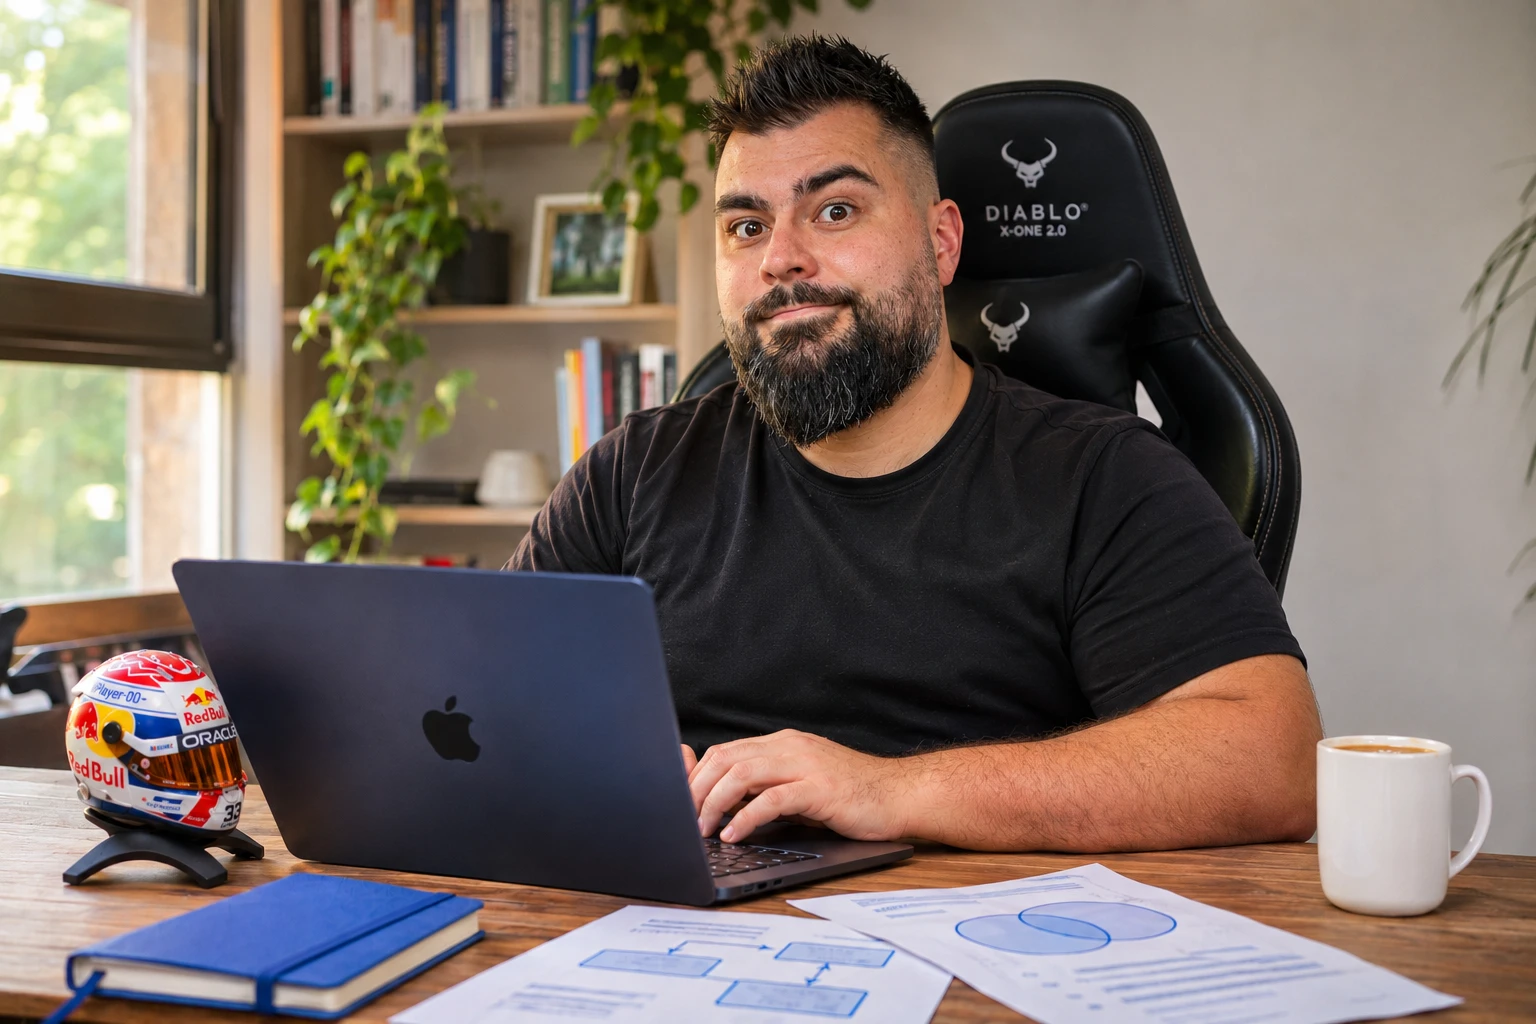
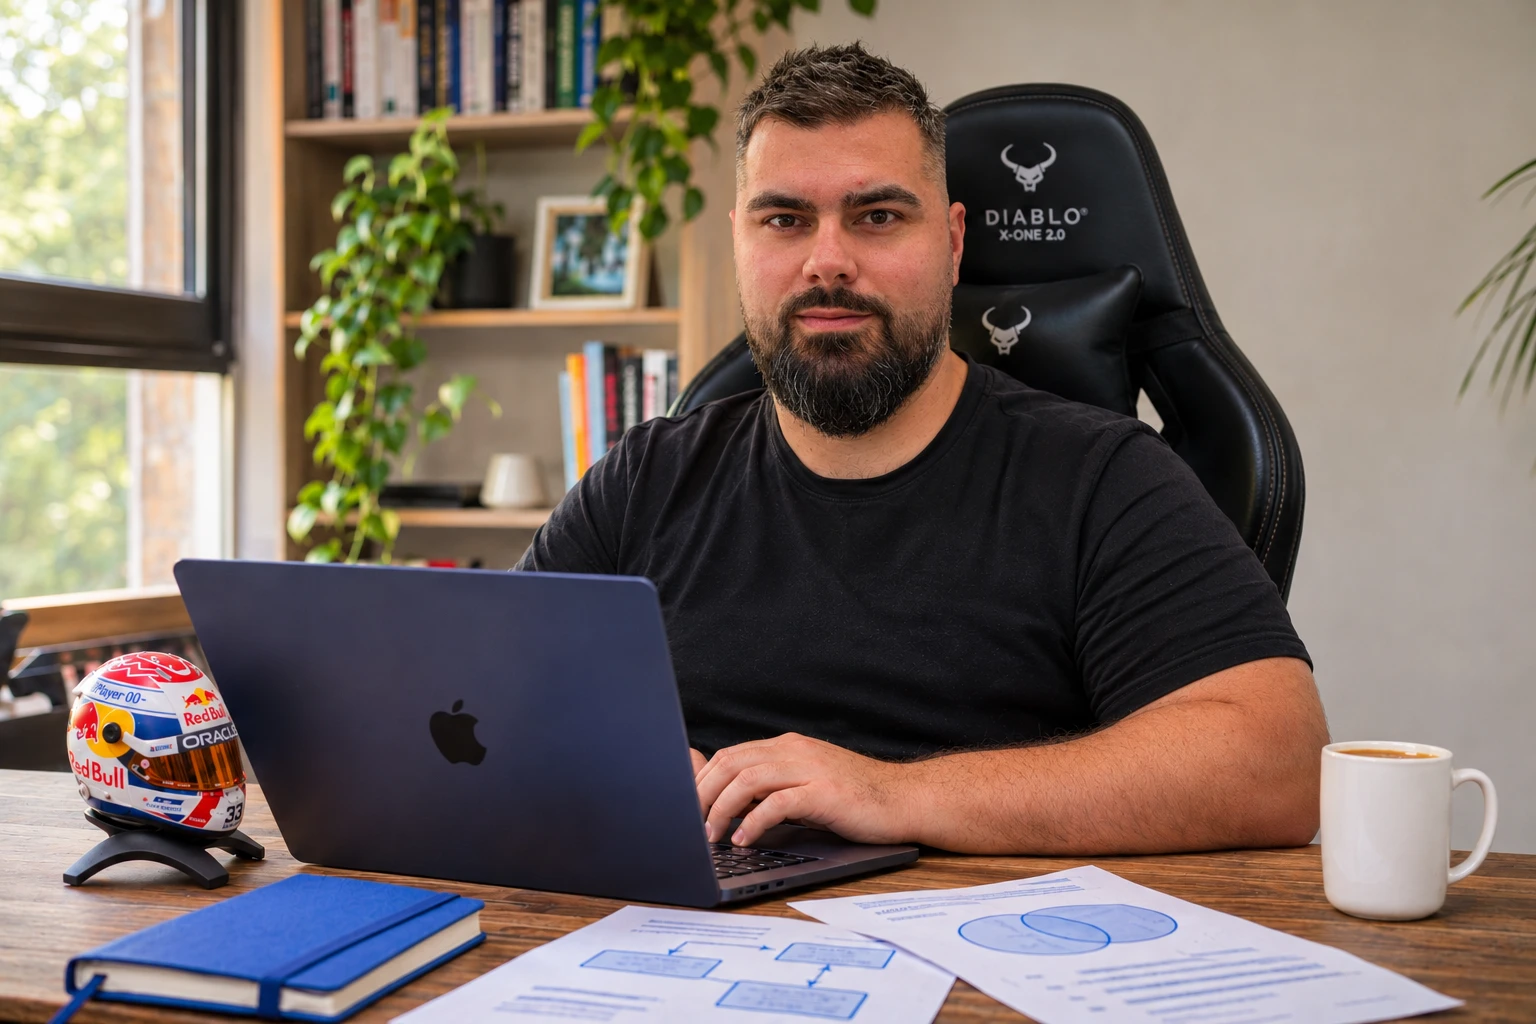
Refine portrait likeness and calm expression using latest real reference

diff --git a/personal/index.html b/personal/index.html
@@ -11,7 +11,7 @@
 <body>
 <main aria-label="Lukáš Javůrek">
 <h1 class="wordmark" aria-label="Lukáš Javůrek"><span class="wordmark-first">Lukáš</span><span class="wordmark-last">Javůrek<span class="wordmark-dot" aria-hidden="true">.</span><svg class="wordmark-stroke" viewBox="0 0 180 12" aria-hidden="true"><path d="M3 8C44 2 105 2 177 5"/></svg></span></h1>
-<img class="illustration" src="/personal/hero.webp?v=4ac3df24e65f" alt="Lukáš Javůrek přirozeně sedí za inkoustově modrým MacBookem a dívá se do objektivu. Na stole je model helmy Maxe Verstappena a hrnek kávy." width="1536" height="1024" fetchpriority="high">
+<img class="illustration" src="/personal/hero.webp?v=771e69d6d199" alt="Lukáš Javůrek přirozeně sedí za inkoustově modrým MacBookem a dívá se do objektivu. Na stole je model helmy Maxe Verstappena a hrnek kávy." width="1536" height="1024" fetchpriority="high">
 <a class="school-link" href="/kapli/">Rozcestník pro učitele ZŠ Kaplického</a>
 </main>
 </body></html>
